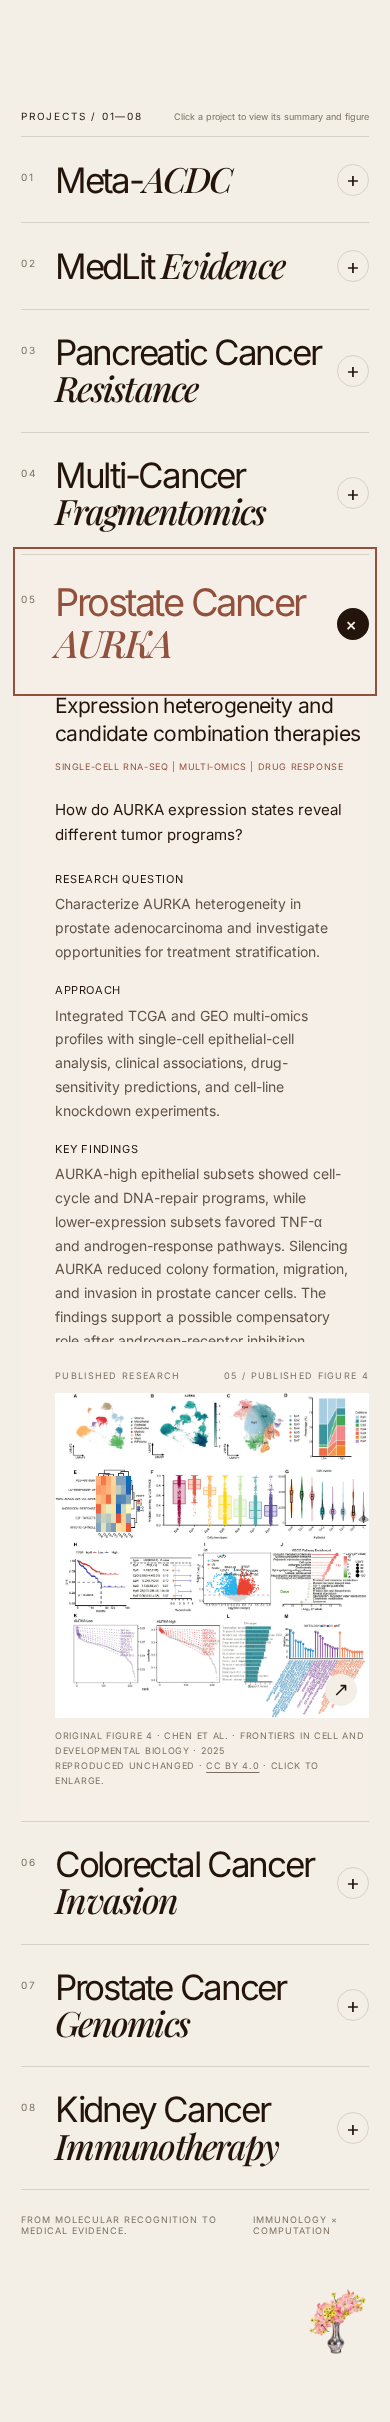
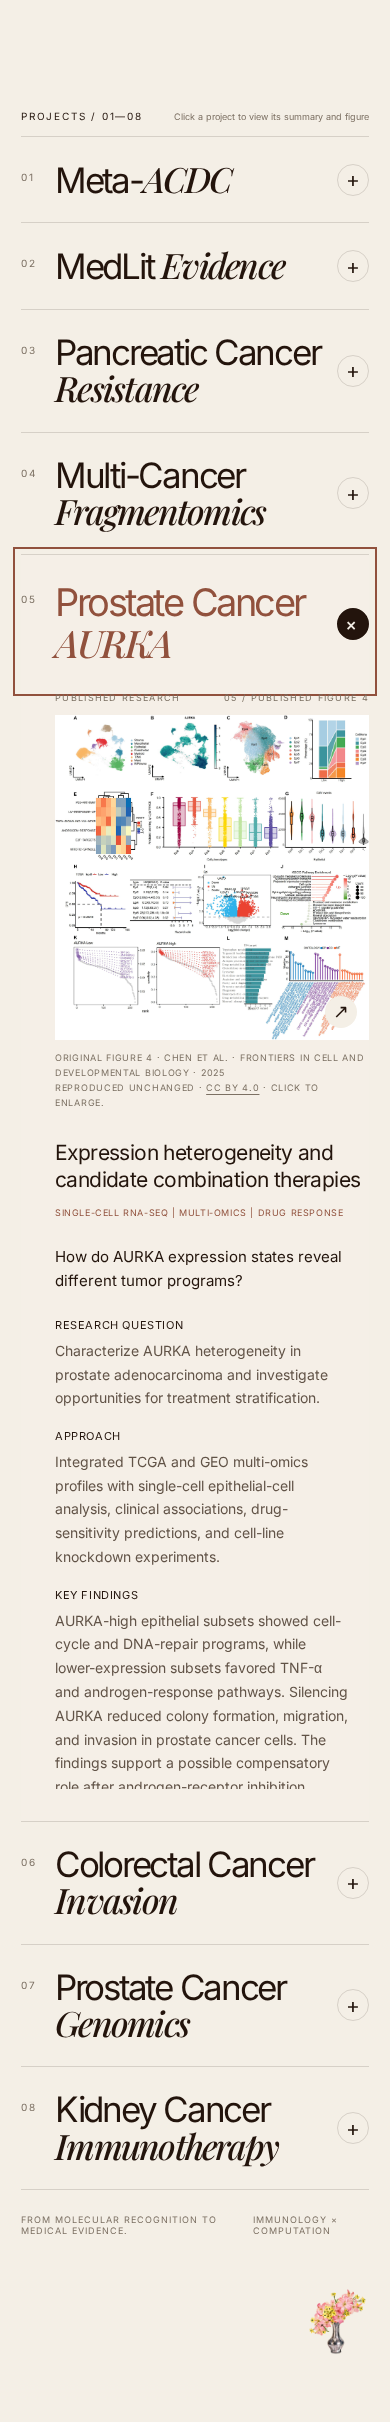
Store original project figures locally and verify desktop and mobile display

Changed region(s): [[0.1231, 0.2787, 0.9538, 0.7432]]

diff --git a/projects/index.html b/projects/index.html
@@ -107,7 +107,7 @@
           </div>
           <div class="visual-column">
             <div class="visual-topline"><span class="visual-label">Published research</span><span class="visual-label">04 / Published figure 1</span></div>
-            <button class="image-button" aria-label="Enlarge original paper Figure 1"><img class="project-image paper-figure" src="assets/figures/multicancer-fragmentomics.webp" alt="Original Figure 1: plasma repetitive DNA profiling and cancer detection workflow" loading="eager" decoding="async" width="1772" height="1334"><span class="image-zoom" aria-hidden="true">↗</span></button>
+            <button class="image-button" aria-label="Enlarge original paper Figure 1"><img class="project-image paper-figure" src="assets/figures/multicancer-fragmentomics.webp" alt="Original Figure 1: plasma repetitive DNA profiling and cancer detection workflow" loading="eager" decoding="async" width="1772" height="1334" width="1772" height="1334"><span class="image-zoom" aria-hidden="true">↗</span></button>
             <p class="image-caption">Original Figure 1 · Zhang et al. · Frontiers in Cell and Developmental Biology · 2025<br>Reproduced unchanged · <a href="https://creativecommons.org/licenses/by/4.0/" target="_blank" rel="noopener noreferrer">CC BY 4.0</a> · Click to enlarge.</p>
           </div>
         </div></div></div>
@@ -129,7 +129,7 @@
           </div>
           <div class="visual-column">
             <div class="visual-topline"><span class="visual-label">Published research</span><span class="visual-label">05 / Published figure 4</span></div>
-            <button class="image-button" aria-label="Enlarge original paper Figure 4"><img class="project-image paper-figure" src="assets/figures/prostate-aurka.webp" alt="Original Figure 4: AURKA expression heterogeneity in prostate cancer epithelial cells" loading="eager" decoding="async" width="1772" height="1830"><span class="image-zoom" aria-hidden="true">↗</span></button>
+            <button class="image-button" aria-label="Enlarge original paper Figure 4"><img class="project-image paper-figure" src="assets/figures/prostate-aurka.webp" alt="Original Figure 4: AURKA expression heterogeneity in prostate cancer epithelial cells" loading="eager" decoding="async" width="1772" height="1830" width="1772" height="1830"><span class="image-zoom" aria-hidden="true">↗</span></button>
             <p class="image-caption">Original Figure 4 · Chen et al. · Frontiers in Cell and Developmental Biology · 2025<br>Reproduced unchanged · <a href="https://creativecommons.org/licenses/by/4.0/" target="_blank" rel="noopener noreferrer">CC BY 4.0</a> · Click to enlarge.</p>
           </div>
         </div></div></div>
@@ -151,7 +151,7 @@
           </div>
           <div class="visual-column">
             <div class="visual-topline"><span class="visual-label">Published research</span><span class="visual-label">06 / Published figure 3</span></div>
-            <button class="image-button" aria-label="Enlarge original paper Figure 3"><img class="project-image paper-figure" src="assets/figures/colorectal-invasion.webp" alt="Original Figure 3: PRRX2 regulation in perineural invasion-associated fibroblasts" loading="eager" decoding="async" width="1772" height="1746"><span class="image-zoom" aria-hidden="true">↗</span></button>
+            <button class="image-button" aria-label="Enlarge original paper Figure 3"><img class="project-image paper-figure" src="assets/figures/colorectal-invasion.webp" alt="Original Figure 3: PRRX2 regulation in perineural invasion-associated fibroblasts" loading="eager" decoding="async" width="1772" height="1746" width="1772" height="1746"><span class="image-zoom" aria-hidden="true">↗</span></button>
             <p class="image-caption">Original Figure 3 · Chen et al. · Frontiers in Cell and Developmental Biology · 2025<br>Reproduced unchanged · <a href="https://creativecommons.org/licenses/by/4.0/" target="_blank" rel="noopener noreferrer">CC BY 4.0</a> · Click to enlarge.</p>
           </div>
         </div></div></div>
@@ -173,7 +173,7 @@
           </div>
           <div class="visual-column">
             <div class="visual-topline"><span class="visual-label">Published research</span><span class="visual-label">07 / Published figure 1</span></div>
-            <button class="image-button" aria-label="Enlarge original paper Figure 1"><img class="project-image paper-figure" src="assets/figures/prostate-genomics.png" alt="Original Figure 1: mutation landscape in Chinese metastatic hormone-sensitive prostate cancer" loading="eager" decoding="async" width="685" height="286"><span class="image-zoom" aria-hidden="true">↗</span></button>
+            <button class="image-button" aria-label="Enlarge original paper Figure 1"><img class="project-image paper-figure" src="assets/figures/prostate-genomics.png" alt="Original Figure 1: mutation landscape in Chinese metastatic hormone-sensitive prostate cancer" loading="eager" decoding="async" width="685" height="286" width="685" height="286"><span class="image-zoom" aria-hidden="true">↗</span></button>
             <p class="image-caption">Original Figure 1 · Yang et al. · World Journal of Surgical Oncology · 2025<br>Reproduced unchanged · <a href="https://creativecommons.org/licenses/by-nc-nd/4.0/" target="_blank" rel="noopener noreferrer">CC BY-NC-ND 4.0</a> · Click to enlarge.</p>
           </div>
         </div></div></div>
@@ -195,7 +195,7 @@
           </div>
           <div class="visual-column">
             <div class="visual-topline"><span class="visual-label">Published research</span><span class="visual-label">08 / Published figure 1</span></div>
-            <button class="image-button" aria-label="Enlarge original paper Figure 1"><img class="project-image paper-figure" src="assets/figures/kidney-immunotherapy.webp" alt="Original Figure 1: multi-omics TIs-ML model development and validation workflow" loading="eager" decoding="async" width="1772" height="1826"><span class="image-zoom" aria-hidden="true">↗</span></button>
+            <button class="image-button" aria-label="Enlarge original paper Figure 1"><img class="project-image paper-figure" src="assets/figures/kidney-immunotherapy.webp" alt="Original Figure 1: multi-omics TIs-ML model development and validation workflow" loading="eager" decoding="async" width="1772" height="1826" width="1772" height="1826"><span class="image-zoom" aria-hidden="true">↗</span></button>
             <p class="image-caption">Original Figure 1 · Xue et al. · Frontiers in Cell and Developmental Biology · 2026<br>Reproduced unchanged · <a href="https://creativecommons.org/licenses/by/4.0/" target="_blank" rel="noopener noreferrer">CC BY 4.0</a> · Click to enlarge.</p>
           </div>
         </div></div></div>

diff --git a/projects/style.css b/projects/style.css
@@ -45,3 +45,6 @@ body:has(.is-open) main{margin-top:24px;padding-bottom:35px}body:has(.is-open) .
 .image-button:has(.paper-figure){background:#fff}
 .paper-figure,.image-button:hover .paper-figure{height:auto;max-height:560px;object-fit:contain;object-position:center;transform:none}
 .image-caption a{color:inherit;text-underline-offset:3px}
+
+/* Show the paper figure immediately after expansion on narrow screens. */
+@media(max-width:850px){.project:has(.paper-figure) .visual-column{grid-row:1}.project:has(.paper-figure) .copy-column{grid-row:2}}
